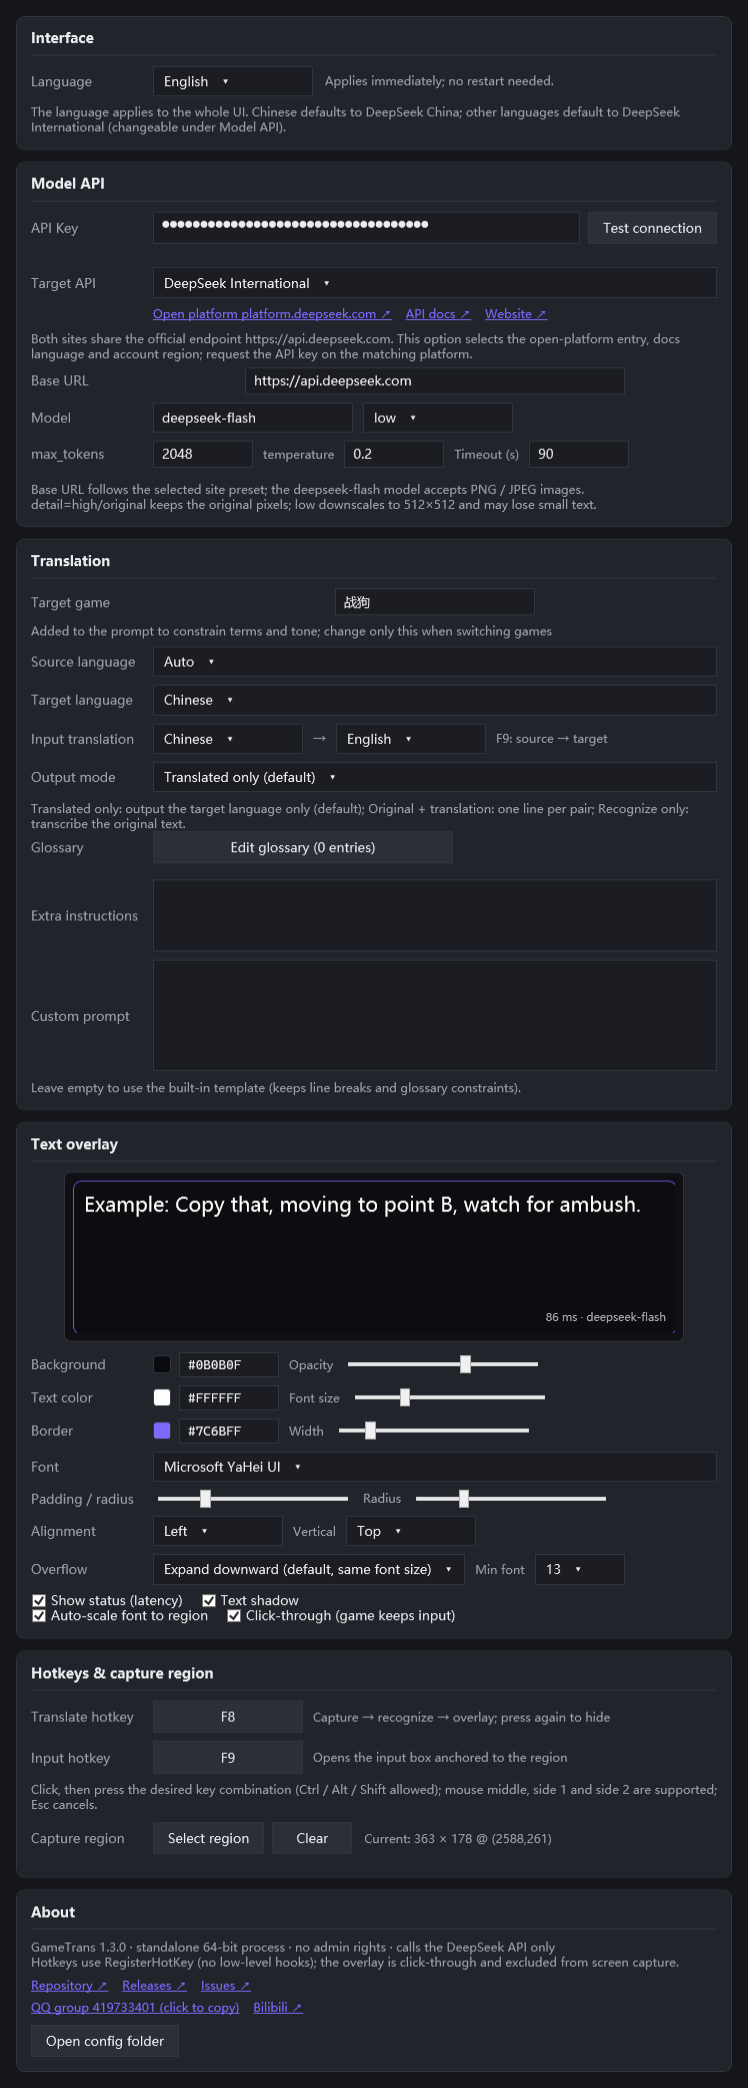
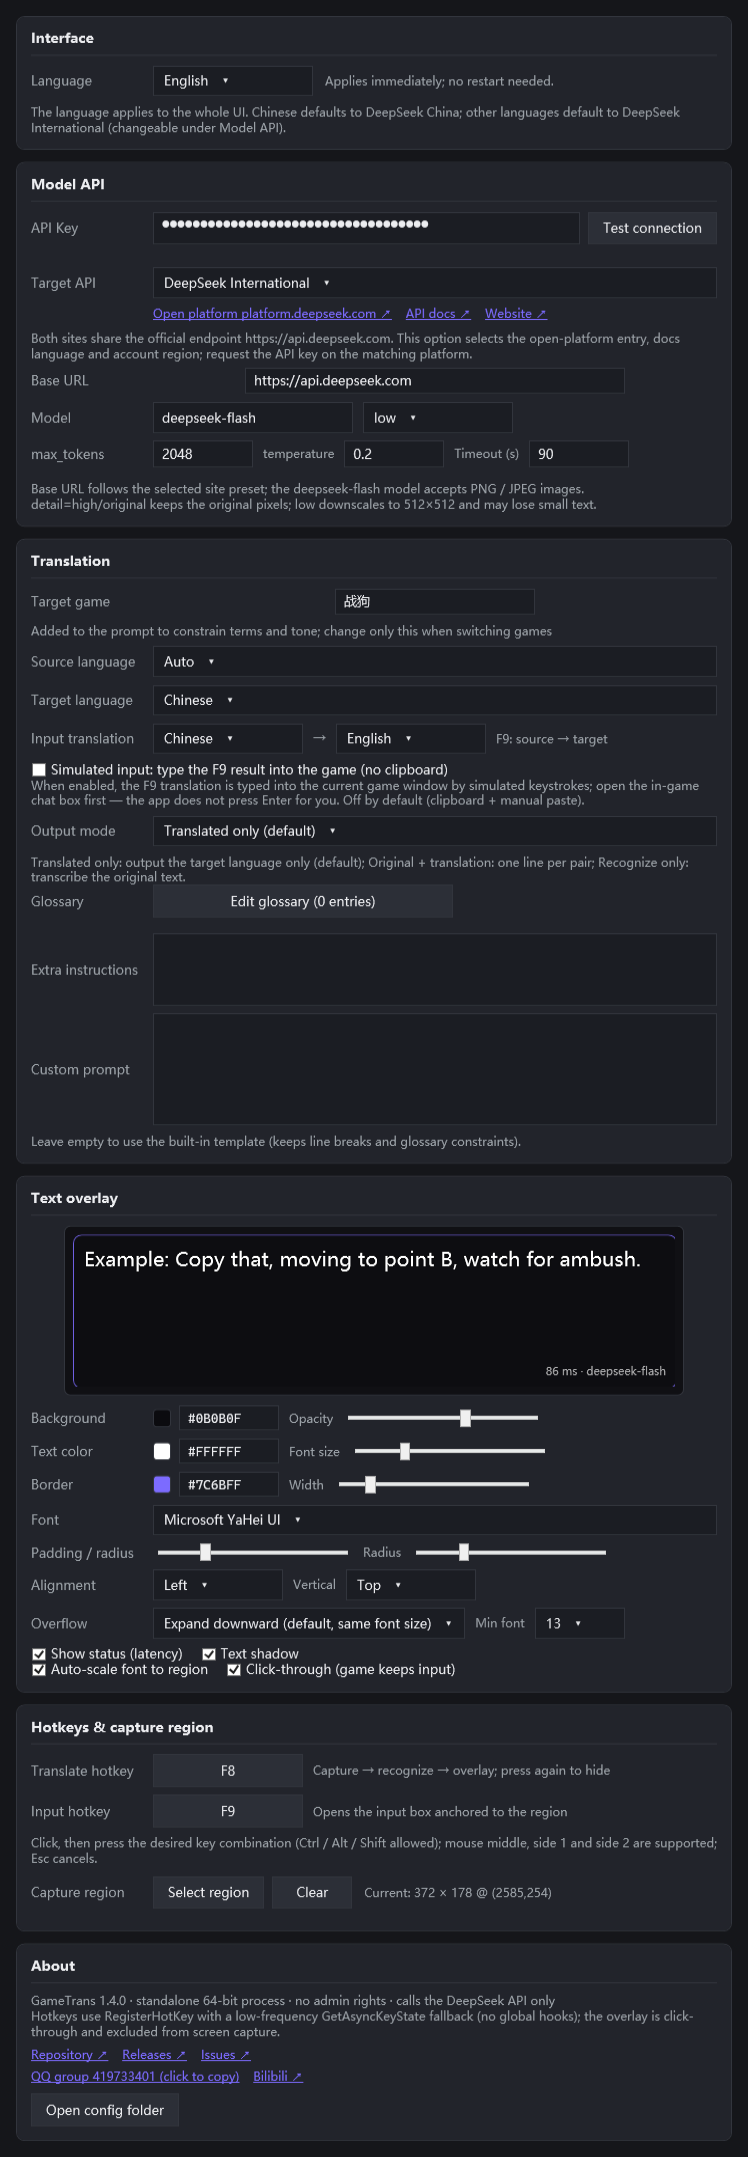
1.4.0：版本号、变更记录与中英文界面截图
- 版本号 1.3.0 -> 1.4.0（csproj / AppInfo / README）。
- CHANGELOG 新增 1.4.0：热键轮询兜底、连按不叠窗、F9 输入窗焦点/自动关闭/点击偏移修复、
  模拟输入设置项。
- 重新生成设置页与输入框、启动页截图（中英），同步新增的「模拟输入」开关与关于页热键说明。

diff --git a/src/GameTrans/Core/AppInfo.cs b/src/GameTrans/Core/AppInfo.cs
@@ -4,7 +4,7 @@ namespace GameTrans.Core;
 public static class AppInfo
 {
     public const string Name = "GameTrans";
-    public const string Version = "1.3.0";
+    public const string Version = "1.4.0";
 
     /// <summary>一句话说明，随界面语言切换。</summary>
     public static string Tagline => Loc.T(

diff --git a/CHANGELOG.md b/CHANGELOG.md
@@ -2,6 +2,29 @@
 
 本项目遵循 [语义化版本](https://semver.org/lang/zh-CN/)。
 
+## 1.4.0
+
+### 新增
+
+- 设置项「模拟输入」：开启后 F9 翻译完成不再写剪贴板，而是把译文用 `SendInput`（Unicode 字符）直接键入当前游戏窗口。会先把前台还给游戏并确认游戏窗口重新获得焦点才开始键入；切不回游戏、或游戏以管理员权限运行导致模拟输入被 UIPI 拦截时，自动退回复制到剪贴板并提示。键入期间临时挂起热键，避免译文中的字符命中所绑定的热键。配置字段 `behavior.simulateInput`，默认关闭。
+
+### 修复
+
+- **部分游戏内单键 F8 / F9 无效（必须 Ctrl+F8 之类组合键）**：`RegisterHotKey` 在两类场景下不可靠——快捷键已被其他程序独占（注册失败），或游戏使用 DirectInput / 独占全屏、按键不经过消息泵（注册成功却收不到 `WM_HOTKEY`）。现在键盘热键在原生注册之外同时启用 15 ms `GetAsyncKeyState` 轮询兜底，两条通道按毫秒时间窗去重，同一次按键只触发一次；注册失败不再视为不可用，托盘会提示「已自动启用轮询兼容模式」。全程仍不安装任何全局钩子。
+- **快速连按 F8 / F9 叠加窗口**：F9 每次触发都新建输入窗，连按会叠出多个窗口；选区窗口是模态对话框、其消息循环里热键仍会派发回来，连按 F8/F9 会叠出多个选区窗口。现在输入窗为单实例（已打开时再按 F9 只重新聚焦），选区期间忽略热键，F8/F9 另有 180 ms 去重。
+- **英雄联盟等游戏里 F9 输入框翻译后不消失、Enter / Esc 无效、关闭按钮点不中**：
+  - 前台焦点：游戏持前台锁时 `Show()+Activate()` 会被拒绝，窗口可见但键盘焦点仍在游戏，Enter / Esc 全部送进游戏。改用 `AttachThreadInput + SetForegroundWindow`（`Win32.ForceForeground`）并在失败时短时重试，用户切回游戏时立即停止重试。
+  - 自动关闭：旧逻辑只在剪贴板复制成功时才启动 3 秒倒计时，游戏客户端 / 加速器占用剪贴板时复制失败分支没有倒计时，窗口永远不关。现在翻译成功后一定自动关闭（复制成功 3 秒、复制失败 5 秒并提示 Enter 重试），任意按键取消倒计时。
+  - 键盘路由：Esc / Enter 从输入框的 `KeyDown` 提升到窗口级 `PreviewKeyDown`，点过按钮后依然有效。
+  - 点击偏移：状态文字不再参与命中测试并与按钮分列（长文案会盖住按钮吞掉点击）；窗口改用物理像素 `SetWindowPos` 定位/定尺寸并处理 DPI 变化，消除逐显示器 DPI 下的「看得到、点不到」。
+- 关闭输入框时用同一套前台切换逻辑把前台还给游戏。
+
+### 变更
+
+- 版本号提升至 1.4.0；关于页、README、README.en、docs/DESIGN 与中英文界面截图同步。
+- 自检新增：模拟输入配置默认值/往返、文本规整、`INPUT` 结构体尺寸断言。
+- 新增桌面端集成调试覆盖（临时脚本，不入库）：热键原生注册与轮询兜底、连按不叠窗、F9 单实例/前台焦点/Esc/关闭按钮命中、翻译自动复制与自动关闭、剪贴板被占用时自动关闭、模拟输入键入目标窗口。
+
 ## 1.3.0
 
 ### 新增

diff --git a/README.en.md b/README.en.md
@@ -11,7 +11,7 @@ A real-time chat translator for PC games. It captures a chosen screen region wit
 - Click-through overlay that never steals focus and is excluded from screen capture (so it never translates itself)
 - UI switchable between **简体中文 / English**; translation direction and target API are dropdowns
 
-Current version: **1.3.0** · Project: [github.com/ab-Royo/GameTrans](https://github.com/ab-Royo/GameTrans) · QQ group: **419733401** · Bilibili: [ab_Roy's channel](https://m.bilibili.com/space/51952428)
+Current version: **1.4.0** · Project: [github.com/ab-Royo/GameTrans](https://github.com/ab-Royo/GameTrans) · QQ group: **419733401** · Bilibili: [ab_Roy's channel](https://m.bilibili.com/space/51952428)
 
 ## Contents
 

diff --git a/README.md b/README.md
@@ -11,7 +11,7 @@
 - 叠加层点击穿透、不抢占焦点，并从屏幕截图中排除（不会把译文再次识别）
 - 界面支持**简体中文 / English** 切换；翻译方向与目标 API 均为下拉选择
 
-当前版本：**1.3.0**　·　项目主页：[github.com/ab-Royo/GameTrans](https://github.com/ab-Royo/GameTrans)　·　QQ 群：**419733401**　·　Bilibili：[ab_Roy 的个人空间](https://m.bilibili.com/space/51952428)
+当前版本：**1.4.0**　·　项目主页：[github.com/ab-Royo/GameTrans](https://github.com/ab-Royo/GameTrans)　·　QQ 群：**419733401**　·　Bilibili：[ab_Roy 的个人空间](https://m.bilibili.com/space/51952428)
 
 ## 目录
 
